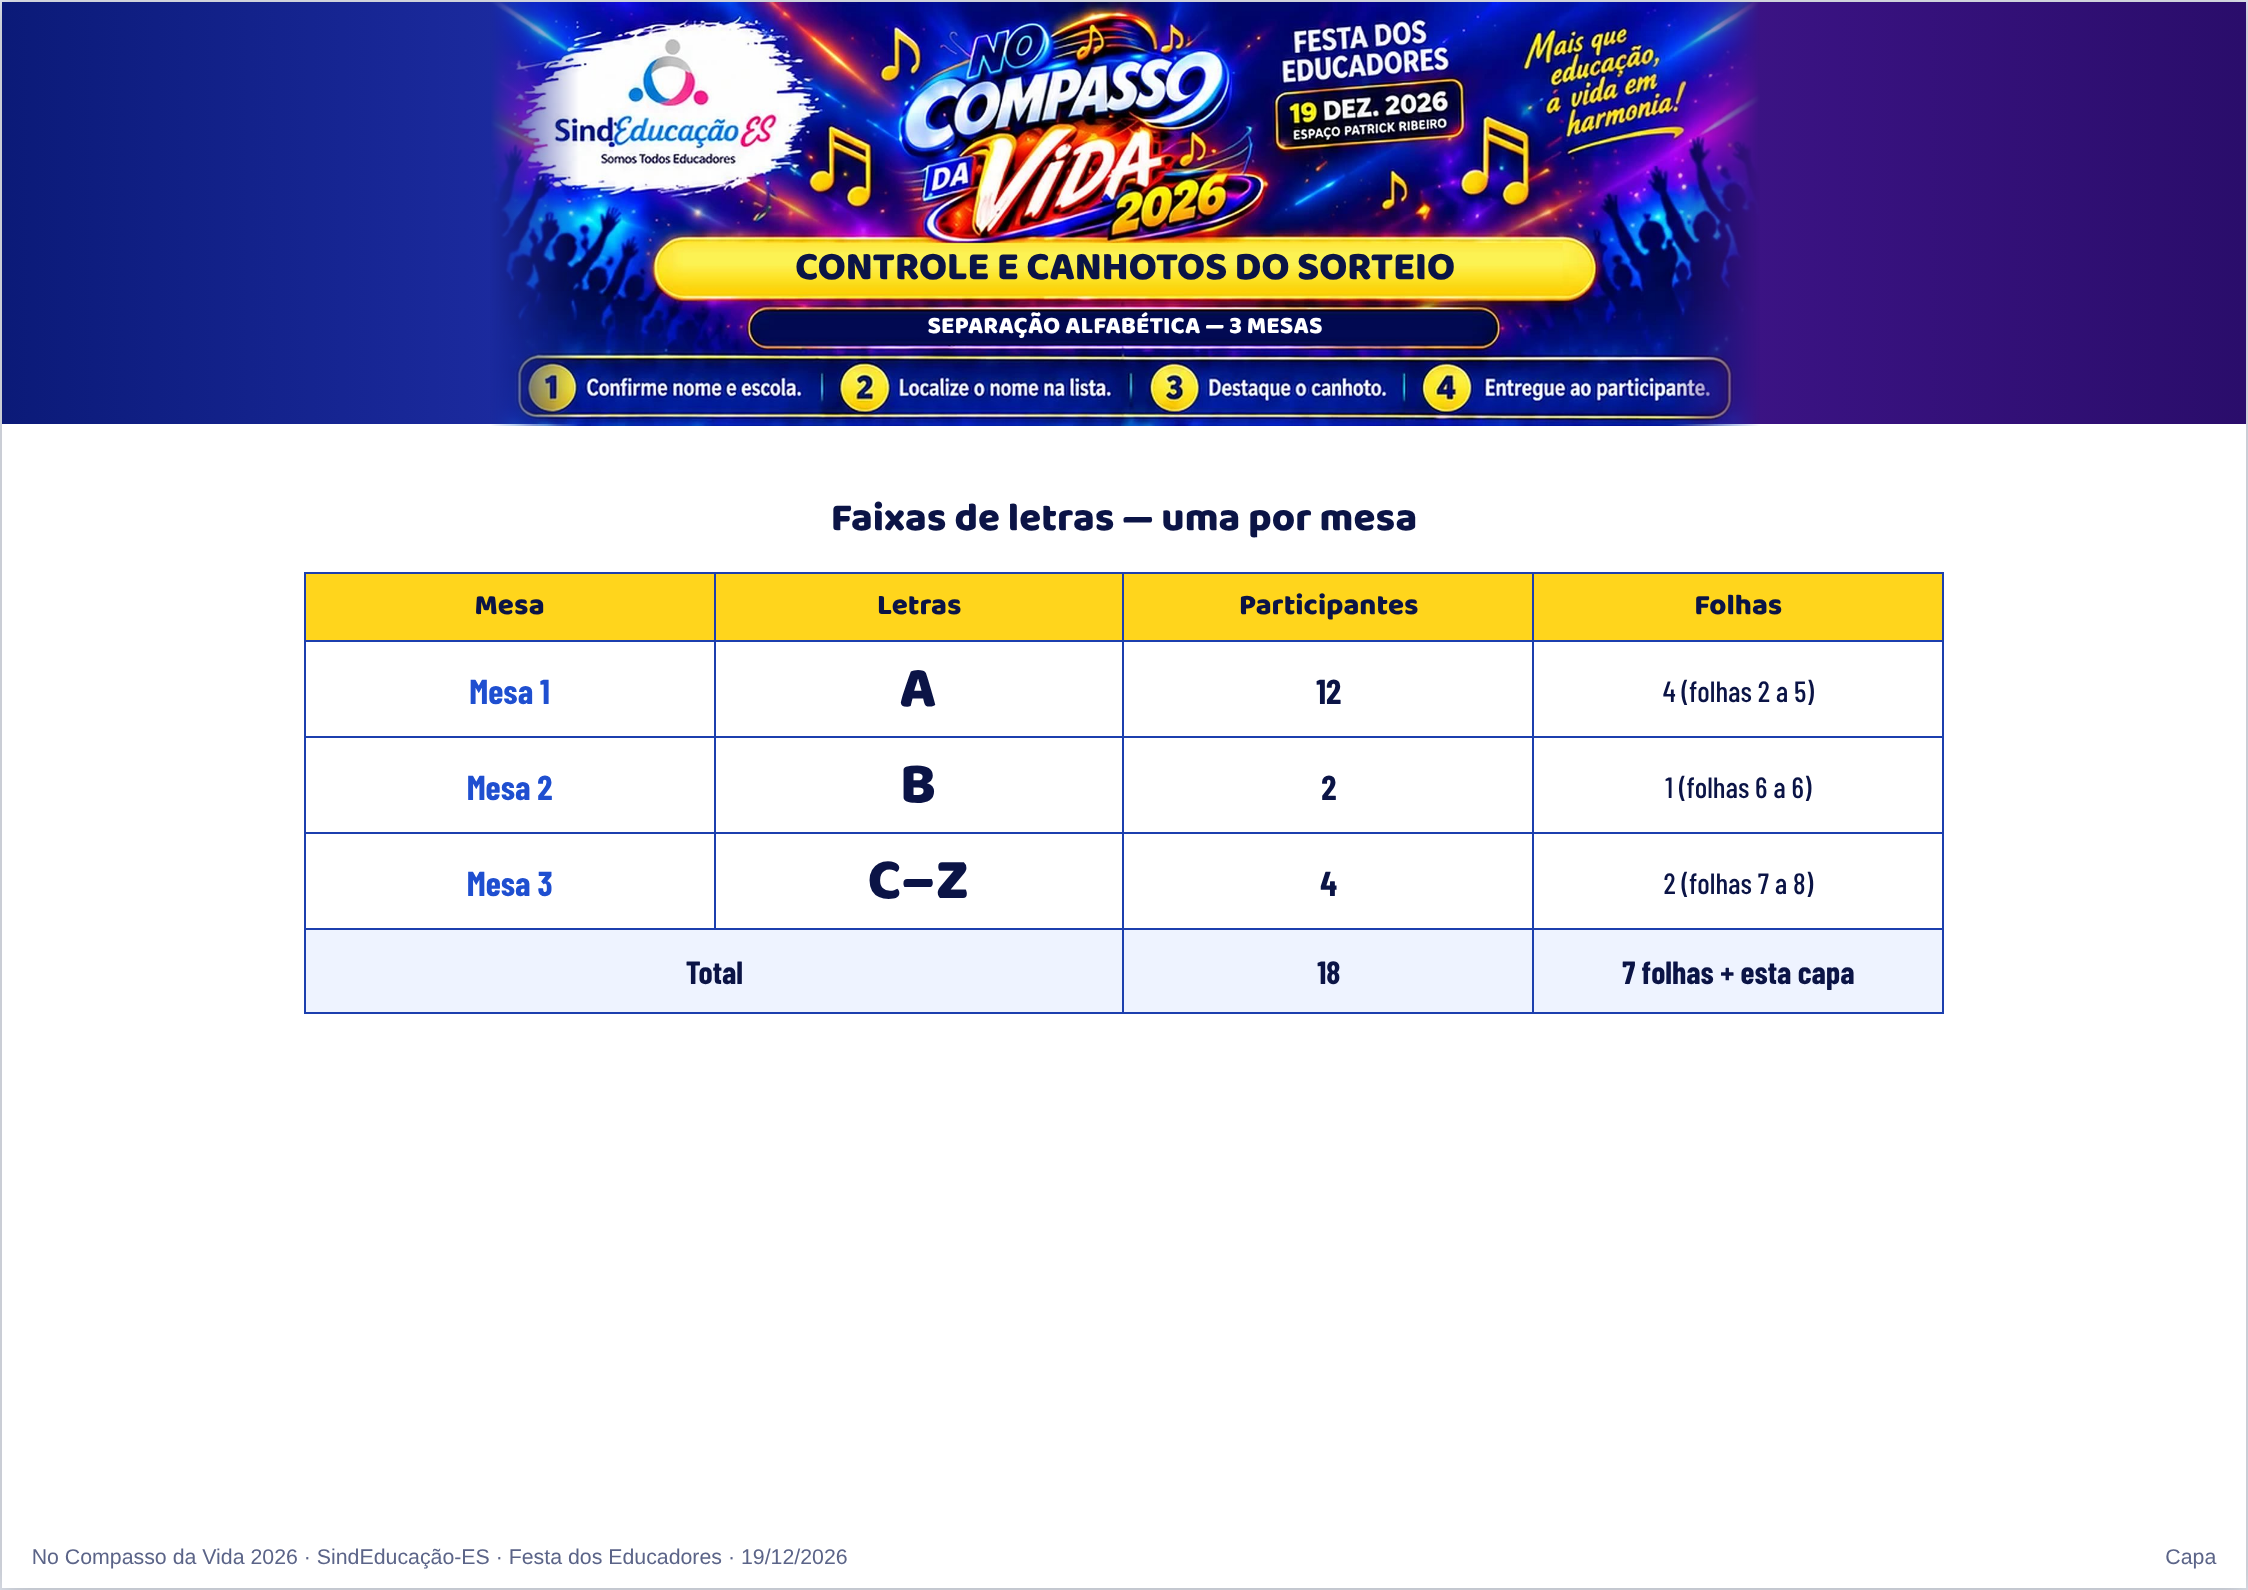
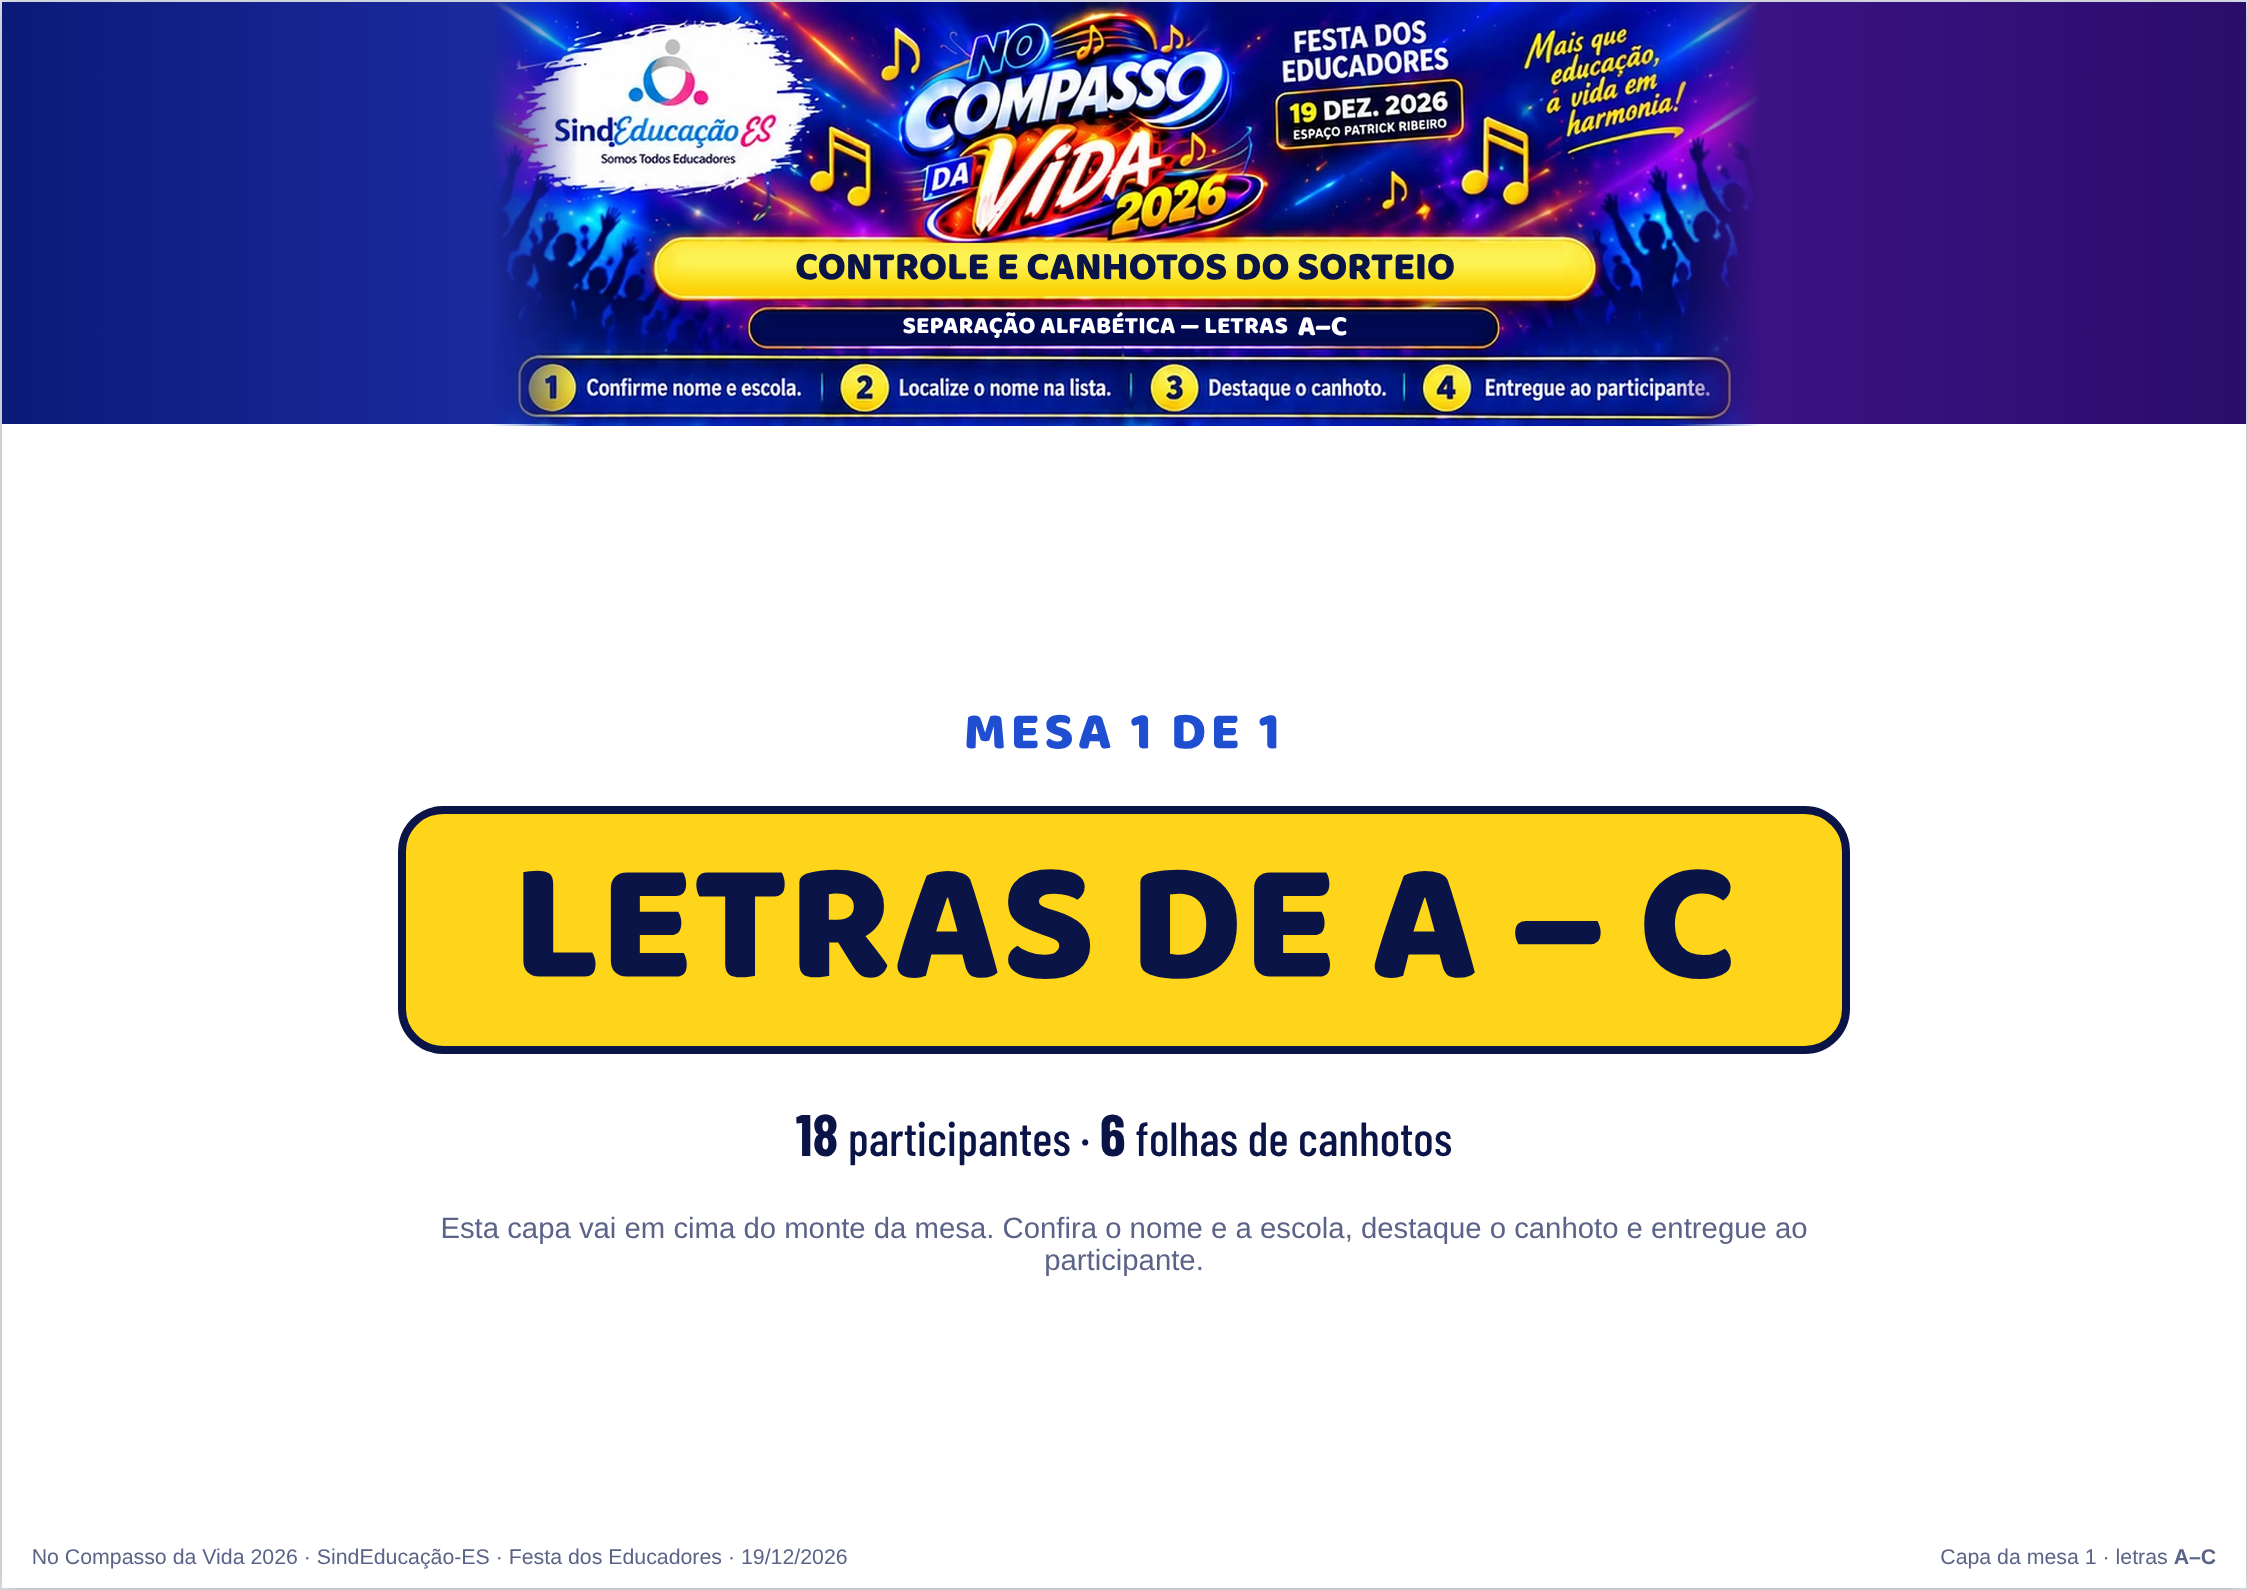
Canhotos (mockup v2, aguardando aprovação): capa POR FAIXA com 'LETRAS DE A – C' em destaque; folhas da lista só com o cabeçalho fino
Usuário (04/11/2026): 'A capa — LETRA DE A - C - EXEMPLO'. Cada faixa abre com a
sua capa (título, mesa N de M, letras grandes, participantes e folhas); 'LETRA A'
quando é uma letra só. As folhas da lista ficam todas com o cabeçalho fino e o
mesmo número de pessoas (paisagem 4/5/6). Prévia: capa + 1ª folha. t205 (47).

Claude-Session: https://claude.ai/code/session_013fKgB93ccCyXawURWLtxVF

diff --git a/CompassoCanhotos.html b/CompassoCanhotos.html
@@ -105,12 +105,12 @@
       <label class="cn-op"><input type="radio" name="canhOrient" value="retrato"> Retrato (em pé)</label>
     </div>
     <div class="cn-linha" style="margin-bottom:12px">
-      <span style="font-size:13.5px;font-weight:600">Pessoas na 1ª folha:</span>
+      <span style="font-size:13.5px;font-weight:600">Pessoas por folha:</span>
       <span id="canhPorFolhaOps"></span>
       <span style="font-size:12px;color:#6b7385" id="canhPorFolhaNota"></span>
     </div>
     <div class="cn-linha">
-      <button class="cn-bt sec" id="canhBtPrevia">👁 Prévia (1ª e 2ª folha)</button>
+      <button class="cn-bt sec" id="canhBtPrevia">👁 Prévia (capa e 1ª folha)</button>
       <button class="cn-bt pri" id="canhBtGerar">🖨 Gerar todas as folhas</button>
       <span class="cn-msg" id="canhMsg"></span>
     </div>
@@ -277,7 +277,7 @@
     }
     var maior=Math.max.apply(null, FAIXAS.map(function(f){ return f.pessoas.length; }).concat([1]));
     var G=geometria(orient(), porFolha()), folhas=0;
-    g('canhPorFolhaNota').textContent='· nas demais folhas, '+G.nDem+' (o título só vai na 1ª) · canhoto de ~'+
+    g('canhPorFolhaNota').textContent='· cada faixa abre com a sua capa · canhoto de ~'+
       (G.largC/10).toFixed(1).replace('.',',')+' × '+(G.altC/10).toFixed(1).replace('.',',')+' cm';
     g('canhFaixas').innerHTML=FAIXAS.map(function(f){
       var fl=paginar(f.pessoas, G).length; folhas+=fl;
@@ -318,9 +318,11 @@
           listaW:78, colN:12, colEs:27, corteX:85.5, canhL:90, canhWmax:116, fNm:10.5, fEs:10, fN:12 }
       : { o:'paisagem', W:297, H:210, FIM:202, bnEsc:0.8, bnLeft:(297-210*0.8)/2, cabPrim:59, topoPrim:69, cabDem:14, topoDem:24,
           listaW:122, colN:15, colEs:50, corteX:129.5, canhL:134, canhWmax:158, fNm:13.5, fEs:13, fN:14 };
-    G.altLinha=(G.FIM-G.topoPrim-ALT_TH)/pf;
-    G.nPrim=pf;
-    G.nDem=Math.max(pf, Math.floor((G.FIM-G.topoDem-ALT_TH)/G.altLinha+1e-6));
+    /* CAPA POR FAIXA — 04/11/2026 ("A capa — LETRA DE A - C"): o título grande
+       vai na capa de cada faixa; TODAS as folhas da lista levam o cabeçalho
+       fino e o mesmo número de pessoas. */
+    G.altLinha=(G.FIM-G.topoDem-ALT_TH)/pf;
+    G.nPrim=pf; G.nDem=pf;
     G.altC=Math.min(G.altLinha-2.4, G.canhWmax/PROP);
     G.largC=G.altC*PROP;
     /* SEM VAZIO À DIREITA — 04/11/2026 (o usuário, com 5 por folha: o
@@ -383,7 +385,7 @@
       '%;font-size:'+(alt*c.k).toFixed(2)+'pt">⬇ DEPOSITE ESTE CANHOTO NA URNA</div>';
   }
   function folha(f, pessoas, idx, total, G){
-    var prim=idx===0, topoTab=prim?G.topoPrim:G.topoDem, cabTop=prim?G.cabPrim:G.cabDem;
+    var prim=false, topoTab=G.topoDem, cabTop=G.cabDem;   // o título grande está na capa da faixa
     var nLinhas=prim?G.nPrim:G.nDem, altC=G.altC, largC=G.largC;
     var linhas='', canhotos='', n=0;
     for(var i=0;i<nLinhas;i++){
@@ -422,21 +424,19 @@
         '<span>Letras <b>'+esc(f.rotulo)+'</b> · folha '+(idx+1)+' de '+total+'</span></div>'+
     '</section>';
   }
-  function capa(faixas, G){
-    var tot=0, fl=0;
-    var linhas=faixas.map(function(f, i){
-      var n=paginar(f.pessoas, G).length, ini=fl+2; fl+=n; tot+=f.pessoas.length;
-      return '<tr><td class="cm">Mesa '+(i+1)+'</td><td class="cl">'+esc(f.rotulo)+'</td><td class="cp">'+f.pessoas.length+'</td><td class="cf">'+n+' (folhas '+ini+' a '+(ini+n-1)+')</td></tr>';
-    }).join('');
+  function capa(f, idx, total, nFolhas, G){
     return '<section class="folha capa">'+
       (G.o==='paisagem' ? '<div class="bn-fundo"></div>' : '')+
       '<div class="bn-wrap"><div class="canh-banner bn"></div>'+
         '<div class="bn-tit">CONTROLE E CANHOTOS DO SORTEIO</div>'+
-        '<div class="bn-sub">SEPARAÇÃO ALFABÉTICA — '+faixas.length+' MESAS</div></div>'+
-      '<div class="capa-cx" style="top:'+(70*G.bnEsc+8).toFixed(1)+'mm"><h2>Faixas de letras — uma por mesa</h2>'+
-        '<table class="capa-t"><tr><th>Mesa</th><th>Letras</th><th>Participantes</th><th>Folhas</th></tr>'+linhas+
-        '<tr class="tot"><td colspan="2">Total</td><td>'+tot+'</td><td>'+fl+' folhas + esta capa</td></tr></table></div>'+
-      '<div class="rod"><span>No Compasso da Vida 2026 · SindEducação-ES · Festa dos Educadores · 19/12/2026</span><span>Capa</span></div>'+
+        '<div class="bn-sub">SEPARAÇÃO ALFABÉTICA — LETRAS <b>'+esc(f.rotulo)+'</b></div></div>'+
+      '<div class="capa-cx" style="top:'+(70*G.bnEsc+10).toFixed(1)+'mm">'+
+        '<div class="capa-mesa">MESA '+(idx+1)+' DE '+total+'</div>'+
+        '<div class="capa-letras">'+(f.de===f.ate ? 'LETRA '+esc(f.de) : 'LETRAS DE '+esc(f.de)+' – '+esc(f.ate))+'</div>'+
+        '<div class="capa-info"><b>'+f.pessoas.length+'</b> participantes · <b>'+nFolhas+'</b> folha'+(nFolhas>1?'s':'')+' de canhotos</div>'+
+        '<div class="capa-nota">Esta capa vai em cima do monte da mesa. Confira o nome e a escola, destaque o canhoto e entregue ao participante.</div>'+
+      '</div>'+
+      '<div class="rod"><span>No Compasso da Vida 2026 · SindEducação-ES · Festa dos Educadores · 19/12/2026</span><span>Capa da mesa '+(idx+1)+' · letras <b>'+esc(f.rotulo)+'</b></span></div>'+
     '</section>';
   }
   function cssFolha(G){
@@ -485,12 +485,12 @@
     '.cv-in.nome{font-weight:700;text-transform:uppercase}.cv-in.escola{font-weight:600}'+
     '.cv.faixa{font-weight:700}.cv.faixa b{font-weight:800}'+
     '.cv.urna{justify-content:center;font-family:"Baloo 2",Arial Black,sans-serif;font-weight:800;color:#fff;letter-spacing:.02em;text-shadow:0 .2mm .6mm rgba(0,0,0,.6)}'+
-    '.capa-cx{position:absolute;left:'+(G.o==='paisagem'?40:14)+'mm;right:'+(G.o==='paisagem'?40:14)+'mm}'+
-    '.capa-cx h2{margin:0 0 3mm;font-family:"Baloo 2",Arial Black,sans-serif;font-weight:800;font-size:15pt;color:#0b1446;text-align:center}'+
-    '.capa-t{position:static;width:100%;border-collapse:collapse}.capa-t th{font-size:11pt;height:9mm}'+
-    '.capa-t td{border:.45mm solid #1c3fae;height:'+(G.o==='paisagem'?11:13)+'mm;text-align:center;font-size:13pt;font-weight:700}'+
-    '.capa-t td.cl{font-family:"Baloo 2",Arial Black,sans-serif;font-size:22pt;font-weight:800;color:#0b1446;letter-spacing:.04em}'+
-    '.capa-t td.cm{color:#1f4fd0}.capa-t td.cf{font-weight:500;font-size:11pt}.capa-t tr.tot td{background:#eef3ff;font-size:12pt}'+
+    '.capa-cx{position:absolute;left:14mm;right:14mm;bottom:16mm;display:flex;flex-direction:column;align-items:center;justify-content:center;text-align:center;color:#0b1446}'+
+    '.capa-mesa{font-family:"Baloo 2",Arial Black,sans-serif;font-weight:800;font-size:20pt;color:#1f4fd0;letter-spacing:.08em}'+
+    '.capa-letras{font-family:"Baloo 2",Arial Black,sans-serif;font-weight:800;font-size:'+(G.o==='paisagem'?64:56)+'pt;line-height:1;margin:4mm 0;'+
+      'padding:4mm 14mm;border:1.2mm solid #0b1446;border-radius:6mm;background:#ffd51c}'+
+    '.capa-info{font-size:18pt;margin-top:2mm}.capa-info b{font-size:22pt}'+
+    '.capa-nota{font:500 11pt Arial;color:#5b6488;margin-top:6mm;max-width:190mm}'+
     '.rod{position:absolute;left:4mm;right:4mm;bottom:2.4mm;display:flex;justify-content:space-between;font:500 8pt Arial;color:#5b6488}'+
     '@media print{body{background:#fff}.barra{display:none}.folha{margin:0;box-shadow:none;page-break-after:always}}';
   }
@@ -521,13 +521,13 @@
       var G=geometria(orient(), porFolha()), paginas=[];
       /* CAPA COM AS FAIXAS — 04/11/2026 (mockup ao usuário): a folha de
          abertura, com a faixa do título e as faixas escolhidas, uma por mesa. */
-      paginas.push(capa(FAIXAS, G));
       FAIXAS.forEach(function(f, fi){
         if(soPrevia && fi>0) return;
         var pags=paginar(f.pessoas, G);
+        paginas.push(capa(f, fi, FAIXAS.length, pags.length, G));
         for(var i=0;i<pags.length;i++){
-          /* A prévia mostra a 1ª e a 2ª folha da 1ª faixa: uma com o título e uma sem. */
-          if(soPrevia && i>=2) return;
+          /* A prévia mostra a capa e a 1ª folha da 1ª faixa. */
+          if(soPrevia && i>=1) return;
           paginas.push(folha(f, pags[i], i, pags.length, G));
         }
       });

diff --git a/tests/e2e/t205-compasso-canhotos.js b/tests/e2e/t205-compasso-canhotos.js
@@ -183,14 +183,15 @@ if (!dom.jsdomDisponivel()) {
   await t.assentar(120);
   b.ok(t.chamadas.some(c => c.fn === "compassoCanhotos_arte"), "busca a arte só na hora de gerar");
   const doc = (janelas[0] || {}).html || "";
-  /* 04/11/2026: a 1ª folha é a CAPA com as faixas (uma por mesa). */
-  b.ok(/<section class="folha capa">/.test(doc) && /Faixas de letras — uma por mesa/.test(doc), "abre com a capa das faixas");
-  const folhas = doc.split('<section class="folha">').slice(1);
-  b.ok(folhas.length >= 10, "gera as folhas (paisagem, 3 na 1ª e 4 nas demais, o padrão desde 04/11/2026): " + folhas.length);
-  /* 04/11/2026: "o título do controle somente na primeira página". */
-  const comBanner = folhas.filter(f => /class="bn-wrap"/.test(f)).length;
-  const primeiras = folhas.filter(f => /folha 1 de \d+/.test(f)).length;
-  b.igual(comBanner, primeiras, "a faixa do título só na 1ª folha de cada faixa de letras (" + comBanner + " de " + folhas.length + ")");
+  /* 04/11/2026 ("A capa — LETRA DE A - C"): cada faixa abre com a sua capa. */
+  const capas = (doc.match(/<section class="folha capa">/g) || []).length;
+  const nFaixas = manual.split(" ").length;
+  b.igual(capas, nFaixas, "uma capa por faixa (" + capas + ")");
+  b.ok(/LETRAS DE A – F/.test(doc) && /MESA 1 DE 4/.test(doc), "a capa diz as letras e a mesa");
+  const folhas = doc.replace(/<section class="folha capa">[\s\S]*?<\/section>/g, "").split('<section class="folha">').slice(1);
+  b.ok(folhas.length >= 10, "gera as folhas (paisagem, 4 por folha, o padrão desde 04/11/2026): " + folhas.length);
+  /* O título grande só na capa; as folhas da lista com o cabeçalho fino. */
+  b.igual(folhas.filter(f => /class="bn-wrap"/.test(f)).length, 0, "nenhuma folha da lista repete o título grande");
   b.ok(/size:A4 landscape/.test(doc), "a folha sai deitada (A4 paisagem)");
   let alinhado = true, umaVez = true, faixaCerta = true, cabecalho = true;
   let semNumero = true, cortesOk = true;
@@ -223,7 +224,7 @@ if (!dom.jsdomDisponivel()) {
   t.clicar("#canhBtPrevia");
   await t.assentar(60);
   const previa = (janelas[1] || {}).html || "";
-  b.igual(previa.split('<section class="folha">').length - 1, 2, "a prévia mostra duas folhas: a 1ª (com o título) e a 2ª (sem)");
+  b.igual((previa.match(/<section class="folha/g) || []).length, 2, "a prévia mostra a capa e a 1ª folha da lista");
   b.ok(!/setTimeout\(function\(\)\{window\.print\(\);\},400\)/.test(previa), "e não abre a impressão sozinha");
 
   b.naoTestavel("aparência impressa (texto dentro das caixas da arte, cores)",
